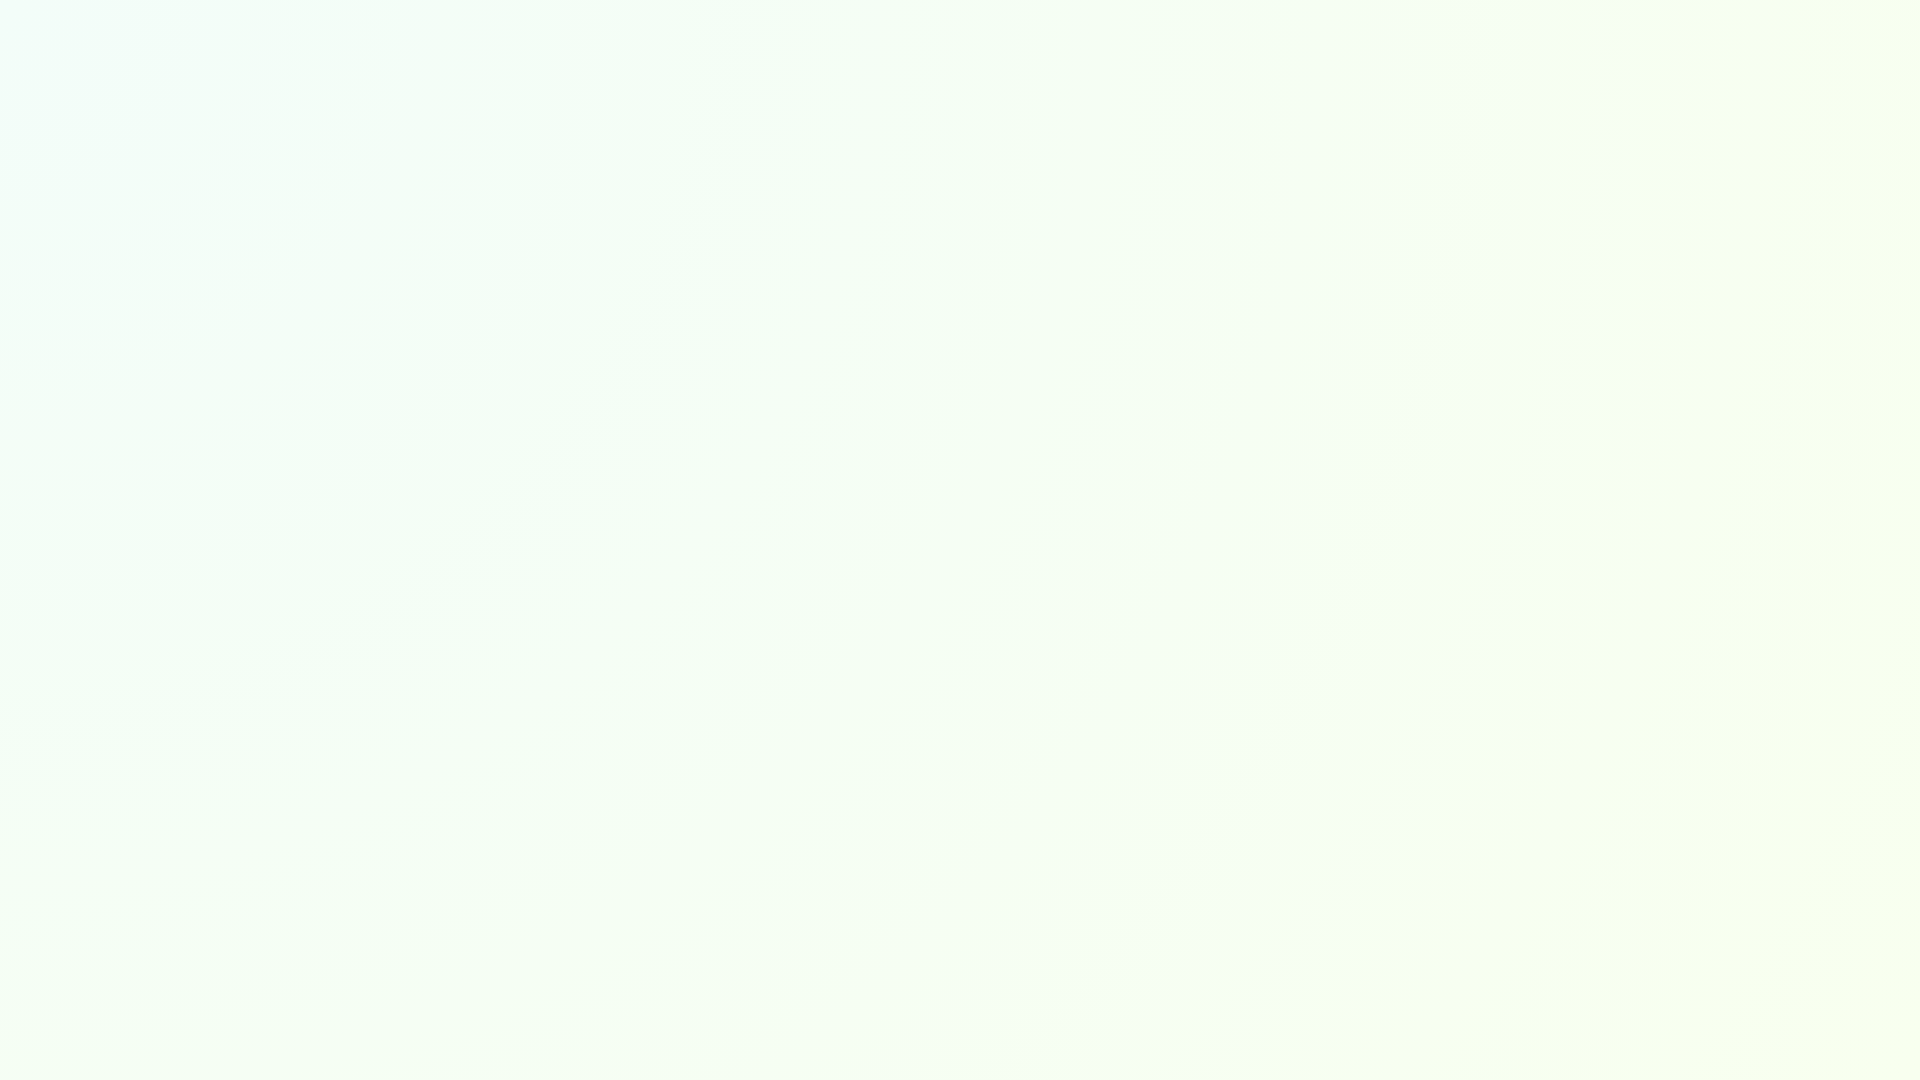
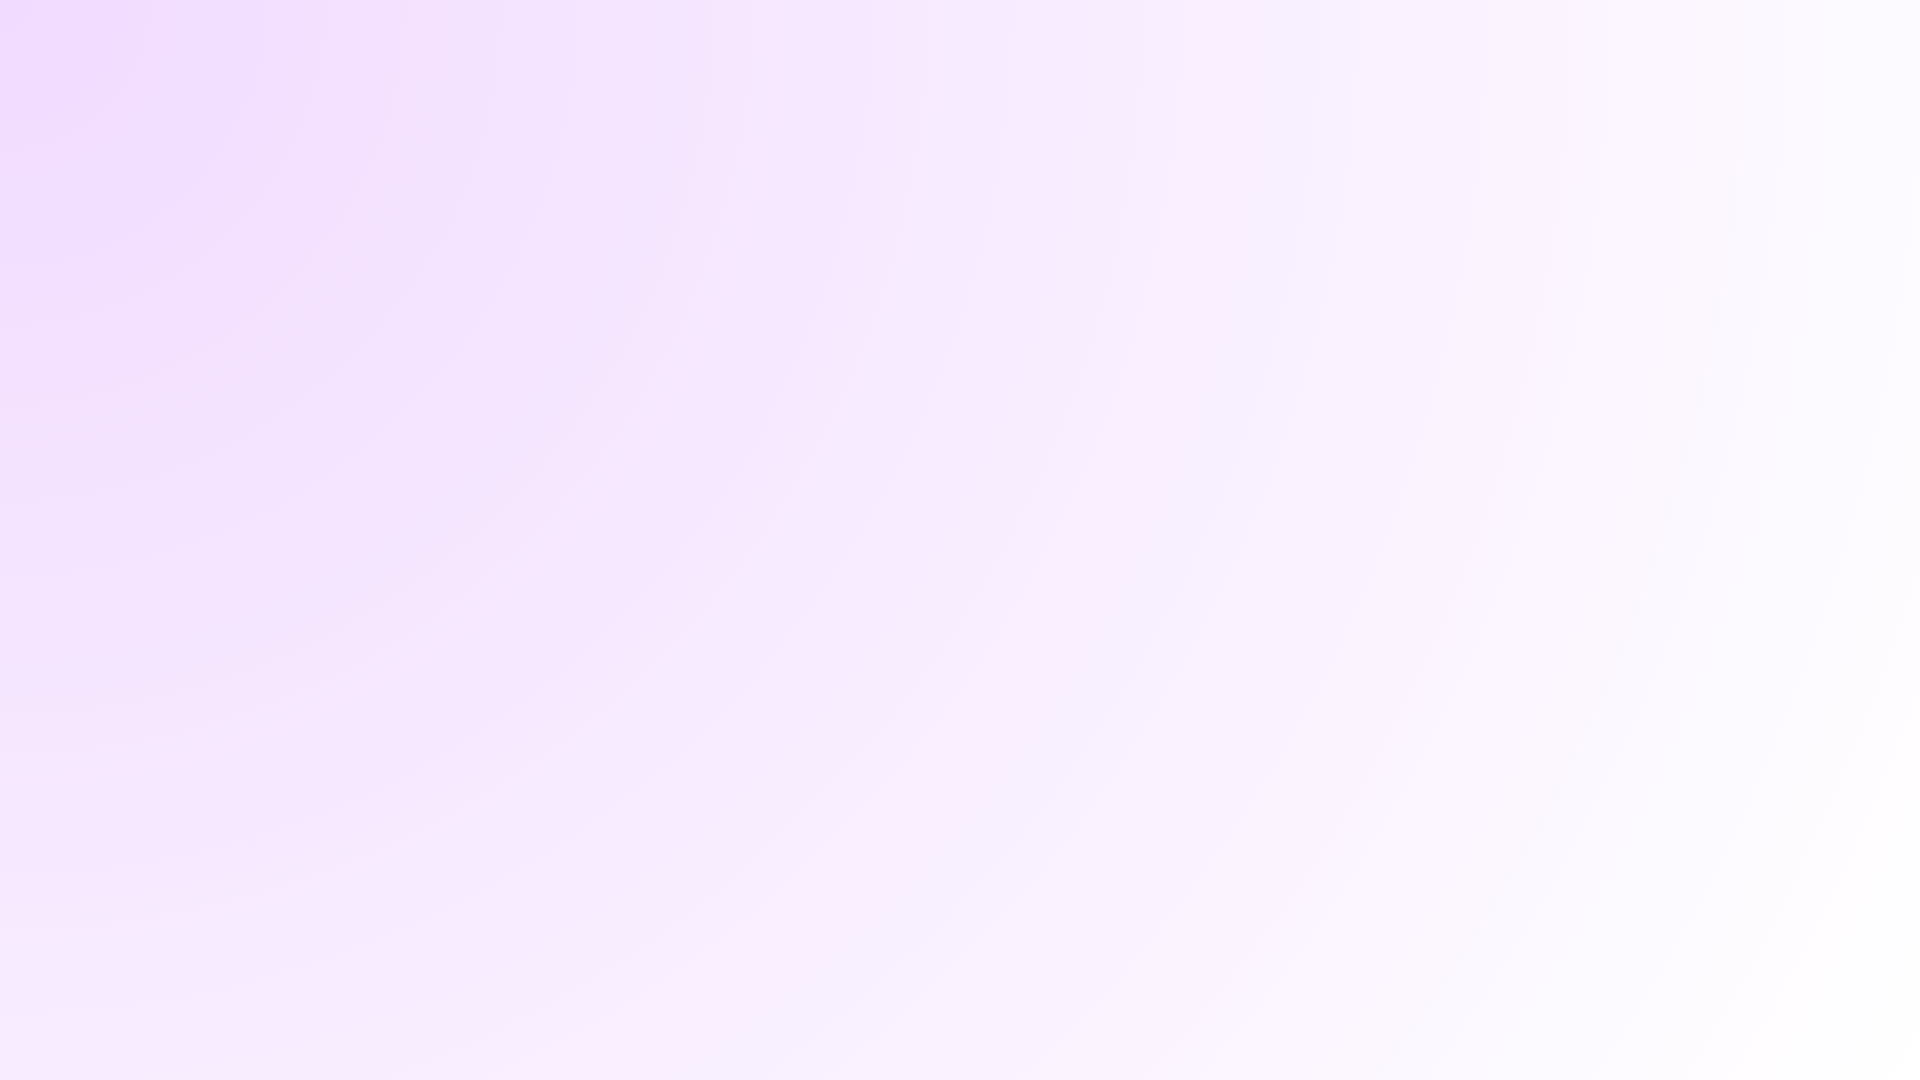
style: změna hlavních barev aplikace

Changed region(s): [[0.0, 0.0, 0.3438, 0.5806]]

diff --git a/public/css/light-mode.css b/public/css/light-mode.css
@@ -1,5 +1,12 @@
 [data-bs-theme="light"] .app-background {
     background-image: url('../images/app-background-light.png');
+    background-size: cover;
+    background-position: center;
+    background-repeat: no-repeat;
+    background-attachment: fixed; /* To dělá obrázek "fixní" */
+    min-height: 100vh;
+    height: auto;
+    display: block;
 }
 
 [data-bs-theme="light"] .app-background-overlay {

diff --git a/resources/views/components/pages/poll-editor/time-options/section.blade.php b/resources/views/components/pages/poll-editor/time-options/section.blade.php
@@ -10,7 +10,7 @@
 <div x-data="TimeOptionsForm" @validation-failed.window="duplicateError($event.detail.errors)">
 
 
-    <x-ui.tw-card header-hidden>
+    <x-ui.tw-card>
         <x-slot:title>
             {{ __('pages/poll-editor.time_options.title') }}
             <small>
@@ -22,7 +22,9 @@
         <div class="row g-3">
             <div class="col-lg-6">
                 <div class="card p-3 shadow-sm">
-                    <h3 class="mb-4">{{ __('pages/poll-editor.time_options.calendar.title') }}</h3>
+                    <h3 class="tw-text-lg mb-3">
+                        {{ __('pages/poll-editor.time_options.calendar.title') }}
+                    </h3>
                     <div id="calendar"
                          x-init="initCalendar()"
                          x-data
@@ -40,7 +42,9 @@
             <div class="col-lg-6">
 
                 <div class="card p-3 h-100">
-                    <h3 class="mb-4">{{ __('pages/poll-editor.time_options.calendar.dates') }}</h3>
+                    <h3 class="tw-text-lg mb-3">
+                        {{ __('pages/poll-editor.time_options.calendar.dates') }}
+                    </h3>
                     <template x-for="(date, dateIndex) in dates" :key="dateIndex">
                         <x-pages.poll-editor.time-options.date-card/>
                     </template>

diff --git a/resources/views/components/layouts/app.blade.php b/resources/views/components/layouts/app.blade.php
@@ -19,24 +19,27 @@
     <livewire:styles/>
 </head>
 
-<body class="app-background">
-<div class="app-background-overlay">
+<body>
+<div class="app-background">
+    <div class="app-background-overlay">
 
-    <!-- Navbar -->
-    <x-layouts.navbar-new />
+        <!-- Navbar -->
+        <x-layouts.navbar-new />
 
-    <!-- Obsah stránky -->
-    <main class="container py-5 min-vh-100 px-0">
-        {{ $slot }}
-    </main>
+        <!-- Obsah stránky -->
+        <main class="container py-5 min-vh-100 px-0">
+            {{ $slot }}
+        </main>
 
-    <!-- Footer -->
-    <x-layouts.footer/>
+        <!-- Footer -->
+        <x-layouts.footer/>
 
-    <livewire:modals/>
-    <livewire:scripts/>
-    @stack('scripts')
+        <livewire:modals/>
+        <livewire:scripts/>
+        @stack('scripts')
 
+    </div>
 </div>
+
 </body>
 </html>

diff --git a/resources/views/livewire/user/dashboard.blade.php b/resources/views/livewire/user/dashboard.blade.php
@@ -69,7 +69,7 @@
 
 
     <div x-show="opened === 'Polls'">
-        <h3>{{ __('ui/navbar.dashboard') }}</h3>
+        <h3 class="tw-text-3xl text-center">{{ __('ui/navbar.dashboard') }}</h3>
         @if (count($polls) !== 0)
             <div class="row">
                 @foreach ($polls as $poll)

diff --git a/resources/views/components/ui/tw-button.blade.php b/resources/views/components/ui/tw-button.blade.php
@@ -6,8 +6,8 @@
 
 
 <button class="tw-btn
-               tw-btn-{{ $color }}
-               btn-{{ $size }}
+               tw-btn-primary
+               tw-btn-{{ $size }}
             {{ $disabled ? 'disabled' : '' }}
             {{ $attributes->get('class') }}"
             {{ $attributes }}>

diff --git a/resources/views/components/ui/tw-badge.blade.php b/resources/views/components/ui/tw-badge.blade.php
@@ -2,6 +2,6 @@
     'color' => 'primary'
 ])
 
-<span class="tw-badge tw-badge-{{ $color }} tw-badge-sm" {{ $attributes }}>
+<span class="tw-badge tw-badge-primary tw-badge-sm" {{ $attributes }}>
     {{ $slot  }}
 </span>
